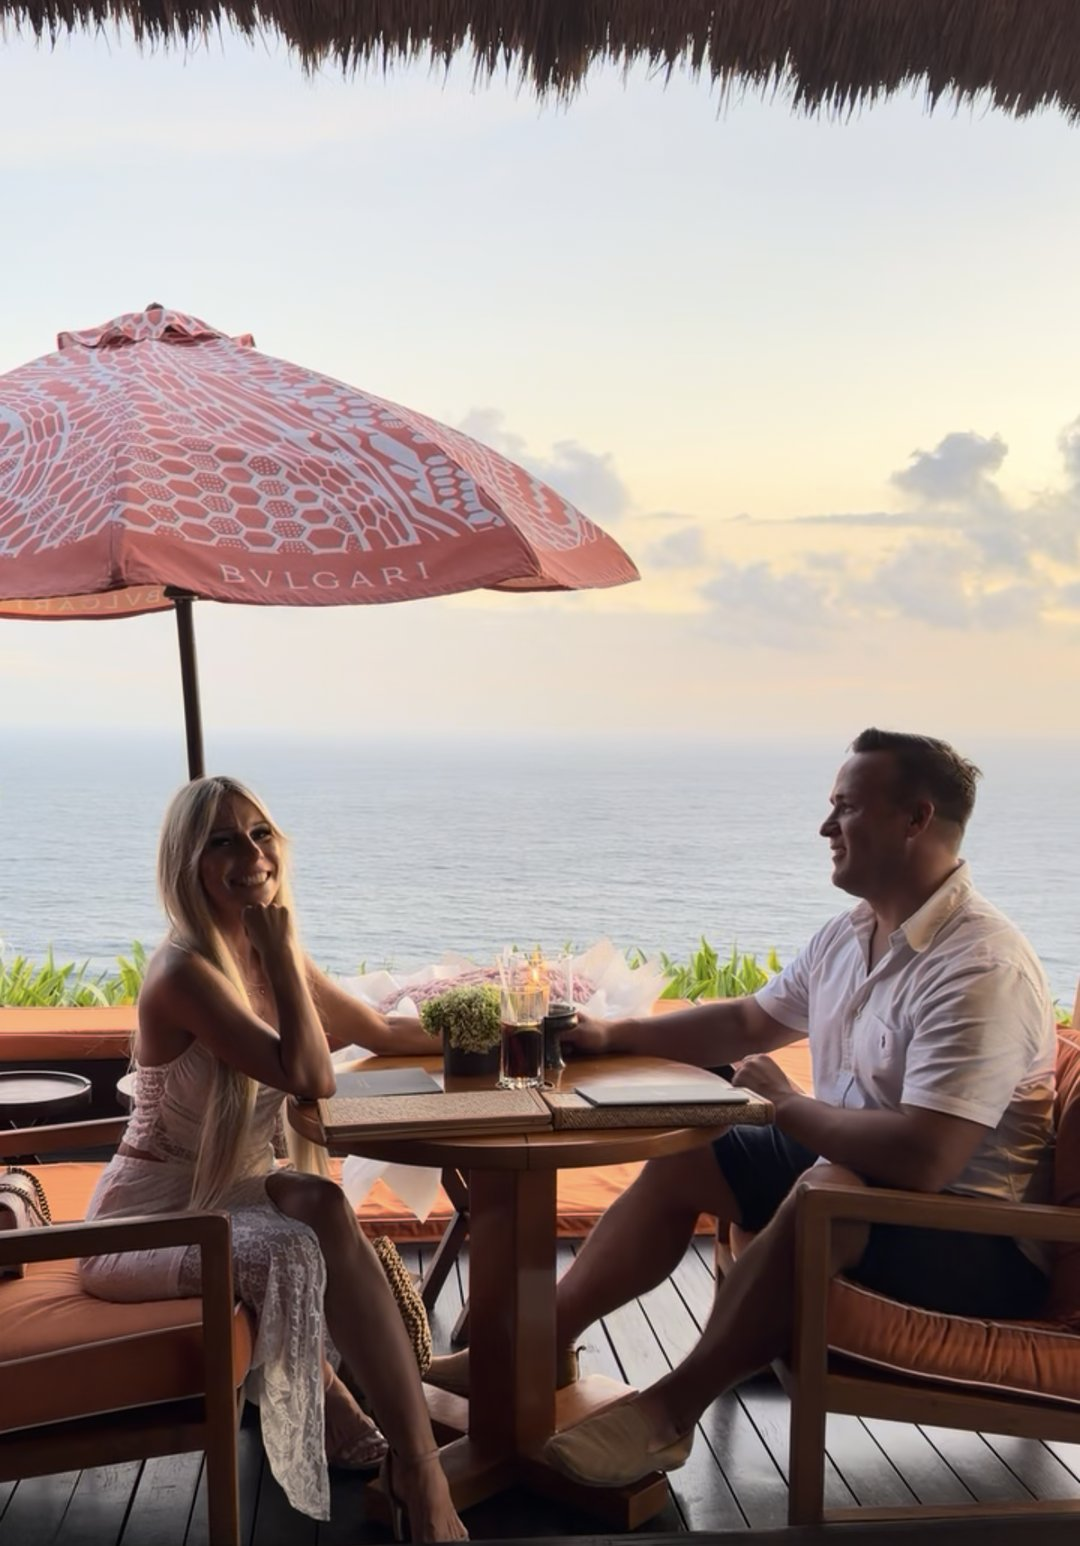
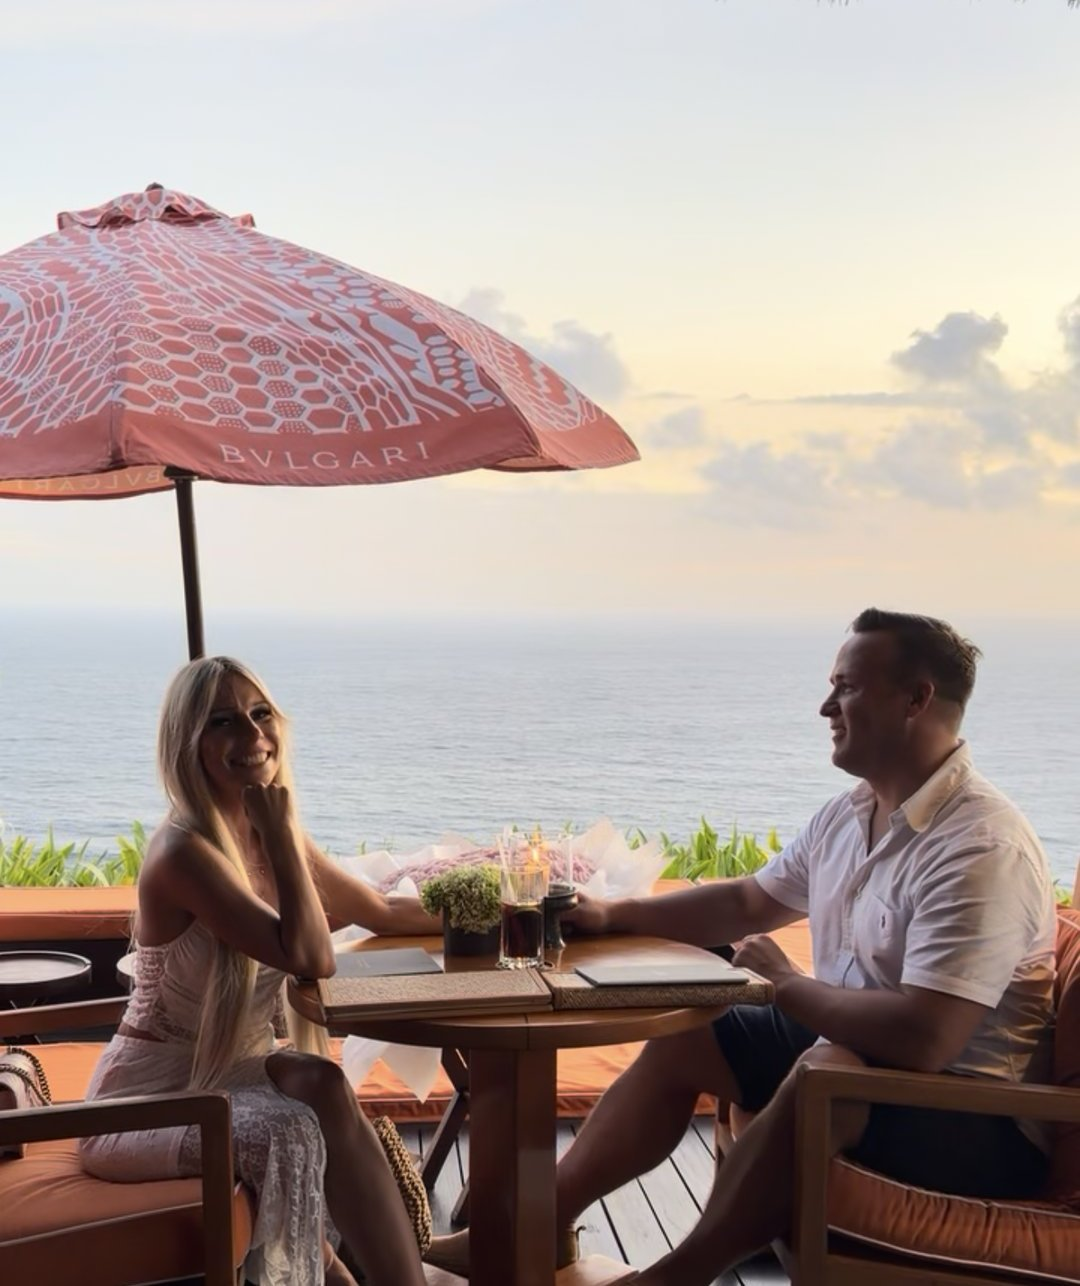
Finalna v15-v3: jeden CTA na starcie, bez żółtych notatek, ciaśniejsze zdjęcia
Sticky pojawia się dopiero po pierwszym przycisku. Placeholderom dałam emocjonalną treść albo prawdziwe opinie. Kanapa bez nóg, okładka mniejsza, para krótsza, bonusy jak karty.

diff --git a/finalna/index.html b/finalna/index.html
@@ -158,10 +158,10 @@ footer .disc{font-size:11.5px;color:#777}
 .sticky{display:none}
 @media (min-width:700px){.about{grid-template-columns:240px 1fr}}
 @media (max-width:640px){
-  .sticky{display:block;position:fixed;left:0;right:0;bottom:0;z-index:50;background:rgba(255,255,255,.97);border-top:1px solid #ffdbe6;padding:8px 12px 10px;box-shadow:0 -4px 16px rgba(0,0,0,.08);text-align:center}
+  .sticky.is-on{display:block;position:fixed;left:0;right:0;bottom:0;z-index:50;background:rgba(255,255,255,.97);border-top:1px solid #ffdbe6;padding:8px 12px 10px;box-shadow:0 -4px 16px rgba(0,0,0,.08);text-align:center}
   .sticky a{display:block;background:var(--blue);color:#fff;text-decoration:none;font:900 16px/1.2 Lato,Arial,sans-serif;padding:13px 10px;border-radius:6px}
   .sticky small{display:block;font:400 11.5px Lato,Arial,sans-serif;color:var(--grey);margin-top:4px}
-  body{padding-bottom:84px}
+  body.sticky-on{padding-bottom:84px}
   body{font-size:17.5px}
   .head{padding-top:22px}
   .inset{float:none;width:100%;margin:10px 0 18px}
@@ -188,7 +188,18 @@ footer .disc{font-size:11.5px;color:#777}
 .photo-add.formula{max-width:280px;background:#fff}
 .bonus-cover.box{max-width:280px}
 
-.photo-add.cover,.photo-add.mock{max-width:420px}
+.photo-add.cover,.photo-add.mock{max-width:336px}
+.photo-add.kanapa{max-width:440px}
+.hso-bonuses{display:grid;gap:14px;margin:14px 0 6px}
+.hso-bonus{display:grid;grid-template-columns:100px 1fr;gap:14px;align-items:center;background:#fff;border:1px solid #ffd0e0;border-radius:14px;padding:12px 14px;box-shadow:0 8px 24px rgba(232,25,90,.12)}
+.hso-bonus figure{margin:0}
+.hso-bonus img{width:100%;height:auto;border-radius:8px;background:#fff;display:block}
+.hso-label{font:700 11px/1 Lato,Arial,sans-serif;letter-spacing:.14em;text-transform:uppercase;color:#fff;background:linear-gradient(135deg,#ff4f81,#e8195a);border-radius:999px;padding:5px 10px;display:inline-block;margin-bottom:6px}
+.hso-bonus h3{font:900 16px/1.25 Lato,Arial,sans-serif;color:var(--ink);margin:0 0 6px}
+.hso-bonus p{font:400 14.5px/1.45 Georgia,serif;color:var(--grey);margin:0}
+.seen-card{max-width:260px;margin:18px auto 24px;text-align:right}
+.seen-card .seen-time{font:700 12px Lato,Arial,sans-serif;letter-spacing:.08em;color:var(--rose);margin-bottom:2px}
+
 .bonus-pack{margin:22px 0 8px;padding:4px 0 8px}
 .bonus-trio{display:flex;justify-content:center;align-items:flex-end;gap:10px;max-width:420px;margin:8px auto 0;padding:10px;background:#fff;border-radius:12px;box-shadow:0 8px 24px rgba(232,25,90,.12)}
 .bonus-trio figure{flex:1;margin:0;max-width:120px}
@@ -267,20 +278,25 @@ footer .disc{font-size:11.5px;color:#777}
   <img src="https://intro.katejaskolska.pl/wp-content/uploads/2026/09/chatgpt-image-jun-10-2026-01-30-54-pm.png" alt="Kate Jaskólska z telefonem na podłodze" width="1131" height="1391">
 </figure>
 
-<p>Na początku wszystko było jak z filmu. <span class="ph">[DO POTWIERDZENIA: jak się poznaliście, jak on się starał na początku, 2 lub 3 zdania]</span></p>
-<p>A potem coś się zmieniło. Odpisywał później. Krócej. Bez wiadomości na dobranoc. <span class="ph">[DO POTWIERDZENIA]</span></p>
+<p>Na początku wszystko było jak z filmu. Odpisywał od razu. Pisał na dobranoc.</p>
+<p>A potem coś się zmieniło. Odpisywał później. Krócej. Bez wiadomości na dobranoc.</p>
 <p class="quote">Pisałam do niego, a on odpisywał jednym słowem. Albo wcale.</p>
 <p>Tego wieczoru napisałam. <b>Przeczytał. Nie odpisał.</b></p>
+<div class="chat seen-card" aria-hidden="true">
+  <div class="seen-time">23:14</div>
+  <div class="seen">Przeczytane ✓✓</div>
+  <div class="silence">cisza</div>
+</div>
 <p>Napisałam jeszcze raz. <b>Przeczytał. Cisza.</b></p>
 <p>Wiedziałam, że „nie powinnam”. Że trzeba dać mu przestrzeń.</p>
 <p>I wtedy zrobiłam coś, czego nie zapomnę nigdy. <span class="k">Coś, co prawie zniszczyło wszystko.</span></p>
 <p>Wysłałam wiadomość, którą w tej sytuacji wysyła prawie każda kobieta.</p>
-<p>I właśnie ta wiadomość sprawiła, że <span class="mk">zniknął na dobre.</span> <span class="ph">[DO POTWIERDZENIA: co się stało potem]</span></p>
+<p>I właśnie ta wiadomość sprawiła, że <span class="mk">zniknął na dobre.</span> Zostałam z telefonem i z ciszą, która nie chciała się skończyć.</p>
 <p>Myślałam, że problem jest we mnie. Że muszę pisać więcej. Bardziej się angażować. Pokazywać, jak bardzo mi zależy.</p>
 <p>Ale im bardziej się starałam, tym bardziej on się wycofywał.</p>
 
-<figure class="photo-add">
-  <img src="img/kasia-kanapa.jpg" alt="Kate Jaskólska wieczorem na kanapie z telefonem" width="1080" height="1440">
+<figure class="photo-add kanapa">
+  <img src="img/kasia-kanapa.jpg" alt="Kate Jaskólska wieczorem na kanapie z telefonem" width="1080" height="1012">
 </figure>
 
 <div class="callout">
@@ -293,7 +309,7 @@ footer .disc{font-size:11.5px;color:#777}
   <div class="sig">Kate</div>
 </div>
 <p>I wtedy <b>coś przykuło moją uwagę.</b></p>
-<p>Zaczęłam przyglądać się starym rozmowom. Tym, po których on znikał. I tym nielicznym, po których nagle wracał, dzwonił, proponował spotkanie. <span class="ph">[DO POTWIERDZENIA: czy tak wyglądał Twój moment odkrycia]</span></p>
+<p>Zaczęłam przyglądać się starym rozmowom. Tym, po których on znikał. I tym nielicznym, po których nagle wracał, dzwonił, proponował spotkanie. Czytałam te zdania w kółko. Szukałam różnicy.</p>
 <p>Zobaczyłam coś, czego wcześniej nie widziałam:</p>
 <p class="pull">Nie chodzi o to, <em>czy</em> piszesz.<br>Chodzi o to, <span style="color:var(--wine)">jak dokładnie</span> piszesz.</p>
 <figure class="photo-add formula">
@@ -308,7 +324,7 @@ footer .disc{font-size:11.5px;color:#777}
   <li>Zamiast martwej rozmowy, <span class="k">rozmowa zaczęła żyć.</span></li>
 </ul>
 <p>A potem zobaczyłam dokładnie ten sam schemat u innych kobiet, które zaczęły używać tych wiadomości. On wracał do rozmowy. Angażował się. Przestawał wycofywać się bez powodu.</p>
-<p><span class="ph">[OPCJONALNIE: krótka, prawdziwa historia klientki za jej zgodą: sytuacja, wiadomość, jego reakcja]</span></p>
+<p class="pull">On wracał do rozmowy.<br>Angażował się.</p>
 
 <!-- NIE TWOJA WINA -->
 <h2 class="sh">To nie Twoja wina</h2>
@@ -340,7 +356,7 @@ footer .disc{font-size:11.5px;color:#777}
 
 <!-- ODKRYCIE / NAZWANIE -->
 <h2 class="sh">Jak powstały Obsesyjne wiadomości</h2>
-<p>To odkrycie tak mnie poruszyło, że zaczęłam zbierać wszystkie wiadomości, które naprawdę działały. <span class="ph">[DO POTWIERDZENIA: jak je zbierałaś]</span></p>
+<p>To odkrycie tak mnie poruszyło, że zaczęłam zbierać wszystkie wiadomości, które naprawdę działały. Te, po których on wracał do rozmowy. Te, po których nagle chciał więcej.</p>
 <p>Każda musiała spełnić 3 warunki:</p>
 <ul class="ic check">
   <li><b>Działa w zwykłym SMS-ie</b> albo na Instagramie.</li>
@@ -408,22 +424,45 @@ footer .disc{font-size:11.5px;color:#777}
 <div class="mod"><span class="num">06</span><h3>Moment, w którym oddajesz mu przewagę.</h3><p>Zanim on poczuje, że może pozwolić sobie na mniej.</p></div>
 <div class="mod"><span class="num">07</span><h3>Wiadomość „OSTATNIA SZANSA”.</h3><p>Na chwilę, gdy czujesz, że go tracisz. Bez desperacji.</p></div>
 <figure class="photo-add">
-  <img src="img/kasia-jacek.jpg" alt="Kate Jaskólska z mężem Jackiem" width="1080" height="1546">
+  <img src="img/kasia-jacek.jpg" alt="Kate Jaskólska z mężem Jackiem" width="1080" height="1286">
 </figure>
 
 <div class="mod"><span class="num">08</span><h3>Co naprawdę oznacza jego cisza.</h3><p>W 80% przypadków nie jest tym, czego się boisz.</p></div>
 <div class="bonus-pack">
-  <div class="mod"><span class="num">+</span><h3>Plus 3 bonusy</h3><p>e-book „Dlaczego on się oddala”, e-book „6 Archetypów Kobiecości” i nagranie audio „Alchemiczne Prowadzenie”.</p></div>
-  <div class="bonus-trio">
-    <figure><img src="img/bonus1.png" alt="Bonus: e-book Dlaczego on się oddala" width="480" height="619"></figure>
-    <figure><img src="img/bonus2.png" alt="Bonus: e-book 6 Archetypów Kobiecości" width="460" height="617"></figure>
-    <figure><img src="img/bonus3.png" alt="Bonus: nagranie audio Alchemiczne Prowadzenie" width="524" height="622"></figure>
+  <div class="mod"><span class="num">+</span><h3>Plus 3 bonusy</h3></div>
+  <div class="hso-bonuses">
+    <article class="hso-bonus">
+      <figure><img src="img/bonus1.png" alt="Bonus #1: e-book Dlaczego on się oddala" width="480" height="619"></figure>
+      <div>
+        <span class="hso-label">Bonus #1</span>
+        <h3>e-book „Dlaczego on się oddala”</h3>
+        <p>Gdy on milczy, łatwo wpaść w spiralę. Ten e-book pokazuje, co naprawdę oznacza jego cisza i jak zareagować spokojnie, zanim cokolwiek wyślesz.</p>
+      </div>
+    </article>
+    <article class="hso-bonus">
+      <figure><img src="img/bonus2.png" alt="Bonus #2: e-book 6 Archetypów Kobiecości" width="460" height="617"></figure>
+      <div>
+        <span class="hso-label">Bonus #2</span>
+        <h3>e-book „6 Archetypów Kobiecości”</h3>
+        <p>Żebyś zrozumiała, z jakiej energii piszesz — i dlaczego jedne wiadomości przyciągają, a inne odpychają.</p>
+      </div>
+    </article>
+    <article class="hso-bonus">
+      <figure><img src="img/bonus3.png" alt="Bonus #3: nagranie audio Alchemiczne Prowadzenie – The One Frequency" width="524" height="622"></figure>
+      <div>
+        <span class="hso-label">Bonus #3</span>
+        <h3>nagranie audio „Alchemiczne Prowadzenie – The One Frequency”</h3>
+        <p>Nagranie, które wycisza spiralę myśli, zanim napiszesz coś z lęku.</p>
+      </div>
+    </article>
   </div>
 </div>
 <div class="proof">
   <p class="lbl">Co mówią kobiety, które już piszą inaczej</p>
-  <div class="proof-slot"><span class="ph">[OPINIA KLIENTKI #2: wstaw prawdziwą, za zgodą]</span></div>
-  <div class="proof-slot"><span class="ph">[ZRZUT WIADOMOŚCI lub OPINIA WIDEO #2: tylko prawdziwe, z zamazanymi danymi]</span></div>
+  <figure class="op-shot featured">
+    <img src="img/opinia-agnieszka.jpg" alt="Opinia Agnieszki: milczał kilka dni, po jednej krótkiej spokojnej wiadomości odpisał i zaproponował spotkanie. Kate, to naprawdę działa!" width="800" height="1210">
+    <figcaption>Agnieszka</figcaption>
+  </figure>
 </div>
 
 <!-- BONUSY -->
@@ -450,8 +489,7 @@ footer .disc{font-size:11.5px;color:#777}
     </ul>
     <div class="result"><b>Efekt dla Ciebie:</b> przestajesz panikować przy każdej przerwie w rozmowie i reagujesz spokojnie, zanim cokolwiek wyślesz.</div>
   </div>
-  <div class="price"><span>Wartość: <s>97 zł</s></span><b>Dziś w pakiecie: 0 zł</b></div>
-</div>
+  </div>
 
 <div class="bonus">
   <div class="top"><span class="badge">BONUS #2</span><span class="icon">✨</span></div>
@@ -468,14 +506,13 @@ footer .disc{font-size:11.5px;color:#777}
     </ul>
     <div class="result"><b>Efekt dla Ciebie:</b> rozumiesz, jakiego mężczyznę przyciągasz i dlaczego. I zaczynasz świadomie wybierać energię, z której piszesz.</div>
   </div>
-  <div class="price"><span>Wartość: <s>97 zł</s></span><b>Dziś w pakiecie: 0 zł</b></div>
-</div>
+  </div>
 
 <div class="bonus">
   <div class="top"><span class="badge">BONUS #3 SPECJALNY</span><span class="icon">🎧</span></div>
   <div class="body">
     <figure class="bonus-cover"><img src="img/bonus3.png" alt="Bonus #3: nagranie audio Alchemiczne Prowadzenie" width="524" height="622"></figure>
-    <p class="name">„Alchemiczne Prowadzenie”</p>
+    <p class="name">„Alchemiczne Prowadzenie – The One Frequency”</p>
     <p class="subt">Nagranie audio</p>
     <p class="hook">Najlepsza wiadomość wysłana ze stanu lęku niszczy więcej niż brak wiadomości. On czuje energię, z której piszesz.</p>
     <p class="lbl">W środku:</p>
@@ -487,8 +524,7 @@ footer .disc{font-size:11.5px;color:#777}
     </ul>
     <div class="result"><b>Efekt dla Ciebie:</b> piszesz z miejsca, które przyciąga, a nie odpycha. Nawet wtedy, gdy w środku wszystko krzyczy „napisz do niego”.</div>
   </div>
-  <div class="price"><span>Wartość: <s>397 zł</s></span><b>Dziś w pakiecie: 0 zł</b></div>
-</div>
+  </div>
 
 <!-- CTA: w OptimizePress podepnij ten przycisk pod popup z e-mailem (zamówienie 2-etapowe). Link zastępczy: op-funnel-next-step/485 -->
 <div class="cta">
@@ -504,9 +540,8 @@ footer .disc{font-size:11.5px;color:#777}
     <p style="font:900 22px Lato,Arial,sans-serif;color:var(--ink);margin:0 0 4px">Kate Jaskólska</p>
     <ul class="stats">
       <li>💋 <b>ponad 1000 kobiet,</b> które dziś czują się kochane i zaopiekowane</li>
-      <li>📱 <b>65,7 tys.</b> obserwujących na Instagramie <span class="ph">[DO POTWIERDZENIA]</span></li>
-      <li>💍 cel: <b>+100 kobiet, które się zaręczą</b> <span class="ph">[DO POTWIERDZENIA]</span></li>
-      <li>🎓 <span class="ph">[DO POTWIERDZENIA: lata pracy z kobietami / wykształcenie / media]</span></li>
+      <li>📱 Znajdziesz mnie też na Instagramie</li>
+      <li>🎓 Stworzyłam Formułę Uzależniających Wiadomości, żebyś nie musiała zgadywać, co mu napisać</li>
     </ul>
   </div>
 </div>
@@ -567,7 +602,7 @@ footer .disc{font-size:11.5px;color:#777}
   <tr class="sum"><td>Łączna wartość</td><td><s>788 zł</s></td></tr>
   <tr class="today"><td>Twoja cena dzisiaj</td><td>97 zł</td></tr>
 </table>
-<p style="text-align:center"><span class="ph">[DO POTWIERDZENIA: cena regularna formuły 197 zł]</span></p>
+<p style="text-align:center">Dostęp od razu po zakupie. 90 dni gwarancji zwrotu pieniędzy.</p>
 <div class="anchors">Jedna konsultacja: <s>od 400 do 700 zł</s><br>Cały pakiet: <s>788 zł</s>. Nawet nie <s>197 zł</s>.</div>
 <div class="bigprice">97 <small>zł</small></div>
 <p style="text-align:center"><b>Jednorazowo.</b> Mniej niż dwie kawy z przyjaciółką, przy których znowu analizowałabyś, co on napisał.</p>
@@ -592,8 +627,9 @@ footer .disc{font-size:11.5px;color:#777}
 </div>
 <div class="proof">
   <p class="lbl">Co mówią kobiety, które już piszą inaczej</p>
-  <div class="proof-slot"><span class="ph">[OPINIA KLIENTKI #3: wstaw prawdziwą, za zgodą, najlepiej obok ceny]</span></div>
-  <div class="proof-slot"><span class="ph">[ZRZUT WIADOMOŚCI lub OPINIA WIDEO #3: tylko prawdziwe, z zamazanymi danymi]</span></div>
+  <figure class="op-shot">
+    <img src="https://intro.katejaskolska.pl/wp-content/uploads/2026/09/tripwire-lp-800-x-800-px-800-x-400-px-1.png" alt="Zrzut wiadomości: Kate, nie odzywał się do mnie od kilku dni… ale dzisiaj się odezwał, zrobiłam dokładnie tak jak mówiłaś i serio to zadziałało" width="800" height="400">
+  </figure>
 </div>
 
 <!-- GWARANCJA -->
@@ -691,6 +727,7 @@ footer .disc{font-size:11.5px;color:#777}
 </footer>
 <!-- CTA: w OptimizePress podepnij ten przycisk pod popup z e-mailem (zamówienie 2-etapowe). Link zastępczy: op-funnel-next-step/485 -->
 <div class="sticky"><a href="#">Chcę Obsesyjne wiadomości za 97 zł</a><small>🔒 90 dni gwarancji • dostęp natychmiast</small></div>
+<script>(function(){var sticky=document.querySelector('.sticky'),first=document.querySelector('.fold-cta');if(!sticky||!first)return;function check(){var on=first.getBoundingClientRect().bottom<0;sticky.classList.toggle('is-on',on);document.body.classList.toggle('sticky-on',on);}window.addEventListener('scroll',check,{passive:true});window.addEventListener('resize',check);check();})();</script>
 <script>(function(){var box=document.getElementById('vsl');if(!box)return;var cover=box.querySelector('.vsl-cover'),video=box.querySelector('video');if(!cover||!video)return;cover.addEventListener('click',function(){box.classList.add('is-playing');video.muted=false;var p=video.play();if(p&&p.catch)p.catch(function(){});});})();</script>
 </body>
 </html>
